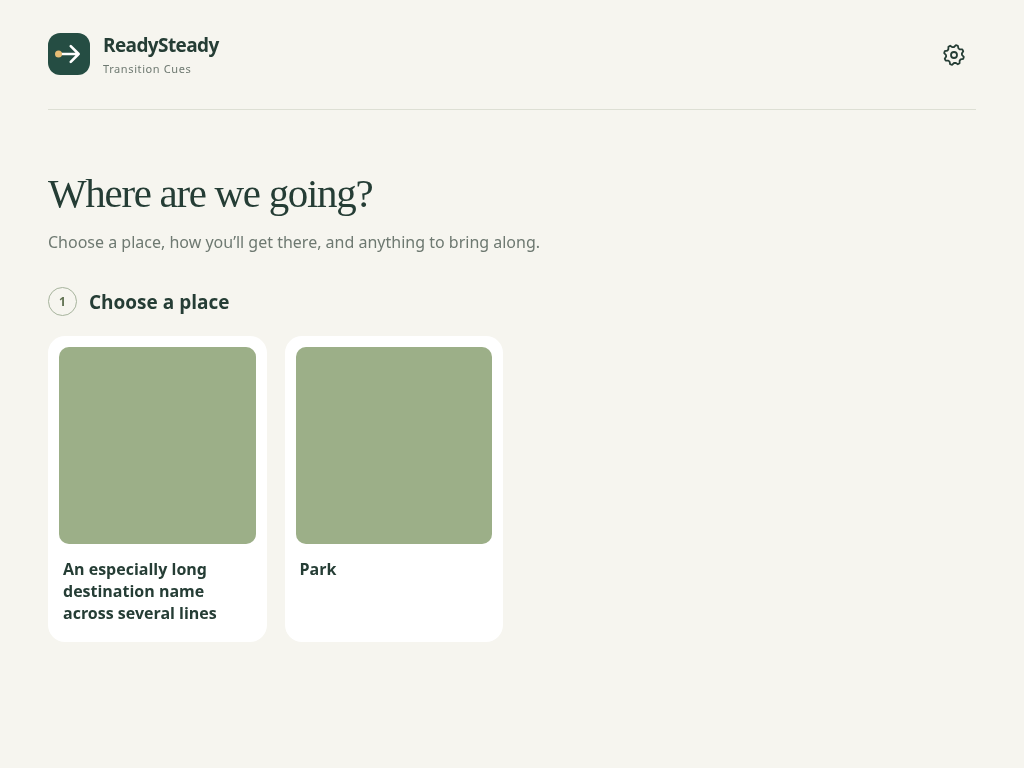
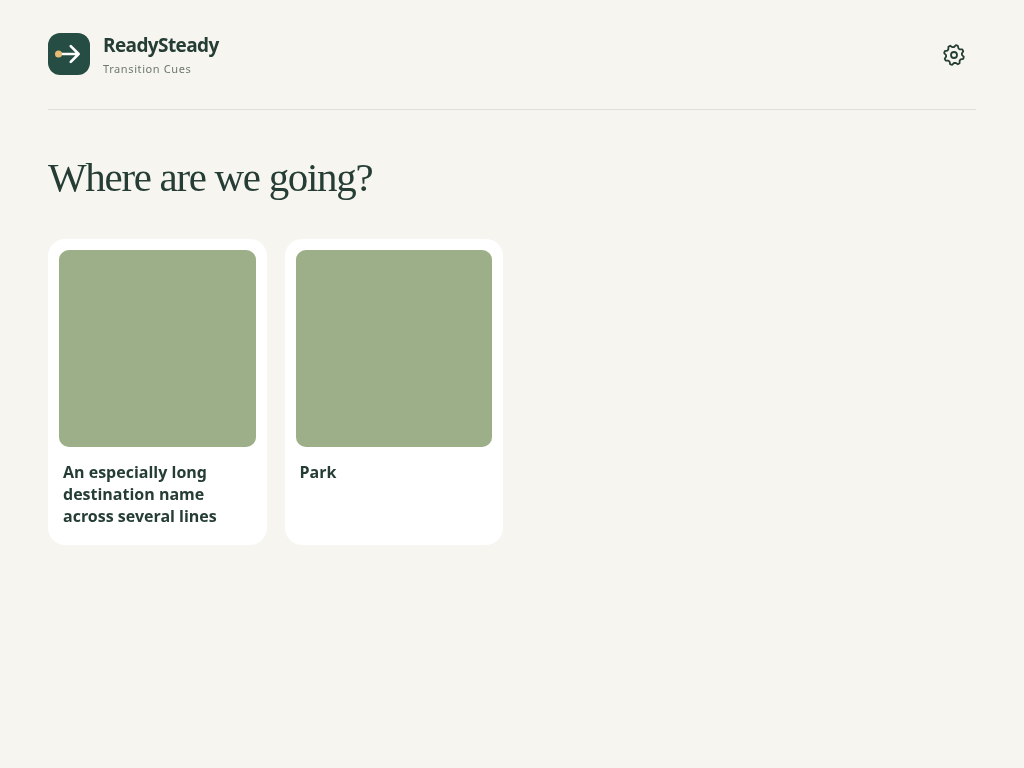
Simplify planner headings and combine People and Items in v1.0.18

diff --git a/transition_cues/transition-cues-web/app.js b/transition_cues/transition-cues-web/app.js
@@ -54,24 +54,31 @@ function empty(kind) {
   }[kind];
   return `<div class="empty"><div class="empty-symbol" aria-hidden="true">${content[0]}</div><h3>${content[1]}</h3><p>Add ${content[2]}.<br>Real, familiar pictures make each journey easier to recognise.</p><a class="secondary" href="#manage">Add ${content[3]} <span aria-hidden="true">＋</span></a></div>`;
 }
-const planKinds=['places','transport','items','people'];
+const planKinds=['places','transport','people','items'];
 function renderChoose(focusStep=false) {
   for(const kind of ['places','transport'])if(selected[kind])selected[kind]=state[kind].find(item=>item.id===selected[kind].id)||null;
   selected.items=selected.items.map(item=>state.items.find(x=>x.id===item.id)).filter(Boolean).slice(0,MAX_BRING_ITEMS);
   selected.people=selected.people.map(item=>state.people.find(x=>x.id===item.id)).filter(Boolean);
   if(!selected.places){selected.transport=null;selected.items=[];selected.people=[];planStep=0;}
   else if(!selected.transport){selected.items=[];selected.people=[];planStep=Math.min(planStep,1);}
-  const kind=planKinds[planStep], multi=planStep>=2;
-  const thumbnails=planKinds.flatMap((key,index)=>(Array.isArray(selected[key])?selected[key]:selected[key]?[selected[key]]:[]).map(item=>`<button type="button" class="plan-thumbnail ${key==='people'?'person-thumbnail':''}" data-edit-step="${index}" aria-label="Change ${key==='places'?'place':key==='items'?'item':key==='people'?'person':'transport'}: ${esc(item.name)}" title="${esc(item.name)}"><img src="${esc(item.image)}" alt=""></button>`)).join('');
-  const progress=selected.places?`<div class="plan-progress" aria-label="Your selections">${planStep>0?`<button id="previousStep" type="button" class="step-back" aria-label="Previous selection" title="Previous selection">${backIcon}</button>`:''}<div class="plan-thumbnails">${thumbnails}</div></div>`:intro('Where are we going?','Choose a place, how you’ll get there, and anything to bring along.');
-  frame(progress+`<section class="step" id="planStep" data-step="${planStep}" aria-labelledby="planHeading"><div class="step-heading"><div class="step-title"><h2 id="planHeading" tabindex="-1"><span class="step-number">${planStep+1}</span>${['Choose a place','Choose how to get there','Items to bring along','People'][planStep]}</h2>${multi?'<p class="step-optional">Optional</p>':''}</div>${multi?`<small id="${kind==='items'?'itemCount':'peopleCount'}" role="status">${kind==='items'?`${selected.items.length} of ${MAX_BRING_ITEMS} selected`:`${selected.people.length} selected`}</small>`:''}</div>${multi?`<p class="step-help">${kind==='items'?'Choose up to 4 items, then continue to People.':'Choose the people coming along, or leave this empty.'} Tap a selected picture again to remove it.</p>`:''}${state[kind].length?`<div class="grid">${state[kind].map(item=>{
-    const active=multi?selected[kind].some(x=>x.id===item.id):selected[kind]?.id===item.id;
-    const full=kind==='items'&&!active&&selected.items.length>=MAX_BRING_ITEMS;
-    return `<button class="picture ${kind==='people'?'person-picture':''} ${active?'selected':''}" data-kind="${kind}" data-id="${item.id}" aria-pressed="${active}" ${full?'disabled':''}><img src="${esc(item.image)}" alt=""><span class="check" aria-hidden="true">✓</span><span class="name">${esc(item.name)}</span></button>`;
-  }).join('')}</div>`:empty(kind)}</section><div class="journey-bar wizard-actions" ${selected.places?'':'hidden'}>${planStep===2?`<button id="nextStep" type="button" class="secondary">${selected.items.length?'Continue to People':'No items to bring'} <span aria-hidden="true">→</span></button>`:''}<button id="start" class="primary" ${selected.places&&selected.transport?'':'disabled'}>Show the plan <span aria-hidden="true">→</span></button></div>`,'choose');
+  planStep=Math.min(planStep,2);
+  const thumbnails=planKinds.flatMap((key,index)=>(Array.isArray(selected[key])?selected[key]:selected[key]?[selected[key]]:[]).map(item=>`<button type="button" class="plan-thumbnail ${key==='people'?'person-thumbnail':''}" data-edit-step="${Math.min(index,2)}" data-edit-kind="${key}" aria-label="Change ${key==='places'?'place':key==='items'?'item':key==='people'?'person':'transport'}: ${esc(item.name)}" title="${esc(item.name)}"><img src="${esc(item.image)}" alt=""></button>`)).join('');
+  const progress=selected.places?`<div class="plan-progress" aria-label="Your selections">${planStep>0?`<button id="previousStep" type="button" class="step-back" aria-label="Previous selection" title="Previous selection">${backIcon}</button>`:''}<div class="plan-thumbnails">${thumbnails}</div></div>`:'';
+  function cards(kind) {
+    const multi=kind==='people'||kind==='items';
+    return state[kind].length?`<div class="grid" data-choice-group="${kind}">${state[kind].map(item=>{
+      const active=multi?selected[kind].some(x=>x.id===item.id):selected[kind]?.id===item.id;
+      const full=kind==='items'&&!active&&selected.items.length>=MAX_BRING_ITEMS;
+      return `<button class="picture ${kind==='people'?'person-picture':''} ${active?'selected':''}" data-kind="${kind}" data-id="${item.id}" aria-pressed="${active}" ${full?'disabled':''}><img src="${esc(item.image)}" alt=""><span class="check" aria-hidden="true">✓</span><span class="name">${esc(item.name)}</span></button>`;
+    }).join('')}</div>`:empty(kind);
+  }
+  const title=['Where are we going?','How are we travelling','Who is coming along?'][planStep];
+  const heading=`<div class="intro wizard-heading"><div><h1 id="planHeading" tabindex="-1">${title}</h1>${planStep===2?'<p class="optional-label">Optional</p>':''}</div>${planStep===2?`<small id="peopleCount" role="status">${selected.people.length} selected</small>`:''}</div>`;
+  const choices=planStep===2?`${cards('people')}<section class="optional-items" aria-labelledby="itemsHeading"><div class="intro wizard-heading"><div><h2 id="itemsHeading" tabindex="-1">What is coming with us</h2><p class="optional-label">Optional</p><p class="items-guidance">Choose up to 4 items</p></div><small id="itemCount" role="status">${selected.items.length} of ${MAX_BRING_ITEMS} selected</small></div>${cards('items')}</section>`:cards(planStep===0?'places':'transport');
+  frame(progress+`<section id="planStep" data-step="${planStep}" aria-labelledby="planHeading">${heading}${choices}</section><div class="journey-bar wizard-actions" ${selected.places?'':'hidden'}><button id="start" class="primary" ${selected.places&&selected.transport?'':'disabled'}>Show the plan <span aria-hidden="true">→</span></button></div>`,'choose');
   app.querySelectorAll('[data-kind]').forEach(button=>button.onclick=()=>{
-    const item=state[kind].find(x=>x.id===button.dataset.id);
-    if(multi){
+    const kind=button.dataset.kind, item=state[kind].find(x=>x.id===button.dataset.id);
+    if(kind==='people'||kind==='items'){
       if(selected[kind].some(x=>x.id===item.id))selected[kind]=selected[kind].filter(x=>x.id!==item.id);
       else if(kind==='people'||selected.items.length<MAX_BRING_ITEMS)selected[kind].push(item);
       else return;
@@ -79,8 +86,7 @@ function renderChoose(focusStep=false) {
     }else{selected[kind]=item;planStep++;renderChoose(true);}
   });
   if($('#previousStep'))$('#previousStep').onclick=()=>{planStep--;renderChoose(true);};
-  app.querySelectorAll('[data-edit-step]').forEach(button=>button.onclick=()=>{planStep=Number(button.dataset.editStep);renderChoose(true);});
-  if($('#nextStep'))$('#nextStep').onclick=()=>{planStep=3;renderChoose(true);};
+  app.querySelectorAll('[data-edit-step]').forEach(button=>button.onclick=()=>{planStep=Number(button.dataset.editStep);const kind=button.dataset.editKind;renderChoose(true);if(kind==='items'){$('#itemsHeading').focus({preventScroll:true});$('#itemsHeading').scrollIntoView({block:'start'});}});
   $('#start').onclick=()=>{
     if(!selected.places||!selected.transport)return;
     pendingJourney={places:selected.places,transport:selected.transport,items:selected.items.slice(0,MAX_BRING_ITEMS),people:[...selected.people]};

diff --git a/transition_cues/transition-cues-web/style.css b/transition_cues/transition-cues-web/style.css
@@ -54,3 +54,5 @@
 /* One choice at a time, with compact editable selection thumbnails. */
 .header .header-back,.step-back{display:inline-flex;align-items:center;justify-content:center;width:44px;height:44px;min-height:44px;padding:0;border-radius:12px;background:#e9ebdf;color:var(--green);flex:none}.header-back svg,.step-back svg{width:25px;height:25px}.header-title{margin:0 0 0 auto;font:normal clamp(28px,4vw,36px)/1.15 var(--serif);text-align:right}.settings-segments{margin-top:28px}.plan-progress{display:flex;align-items:center;gap:12px;margin:28px 0;min-height:44px}.plan-thumbnails{display:flex;flex-wrap:wrap;gap:6px;min-width:0}.plan-thumbnail{width:44px;height:44px;padding:4px;background:transparent;border-radius:10px;flex:none}.plan-thumbnail img{display:block;width:36px;height:36px;object-fit:cover;border-radius:8px}.person-thumbnail img{border-radius:50%}.wizard-actions{justify-content:flex-end;flex-wrap:wrap}.wizard-actions #nextStep{margin-right:auto;min-height:40px;font-size:13px;padding:10px 14px}@media(max-width:620px){.wizard-actions{flex-direction:row;align-items:center}.wizard-actions .secondary{width:auto}.plan-progress{margin:22px 0}}
 .wizard-actions{background:transparent;border:0;box-shadow:none;padding:0}
+
+.wizard-heading{margin:32px 0 26px;align-items:center}.wizard-heading h2{font:normal clamp(32px,4vw,48px)/1.15 var(--serif);letter-spacing:-1.3px;margin:12px 0}.wizard-heading small{font-size:12px;color:var(--muted);flex:none}.optional-items{margin-top:40px}.wizard-heading .items-guidance{font-size:14px;margin-top:5px}@media(max-width:620px){.wizard-heading{display:flex;gap:12px;align-items:flex-start}.wizard-heading small{padding-top:18px;max-width:90px;text-align:right}.optional-items{margin-top:32px}}

diff --git a/tests/browser_display.py b/tests/browser_display.py
@@ -58,12 +58,15 @@ def run(engine):
                 page.reload()
                 expect(page.locator('[data-kind="places"]')).to_have_count(2)
                 expect(page.get_by_role('heading',name='Where are we going?',exact=True)).to_be_visible()
+                expect(page.locator('#planStep p')).to_have_count(0)
+                expect(page.locator('.step-number')).to_have_count(0)
                 expect(page.locator('[data-kind="transport"],[data-kind="items"],[data-kind="people"]')).to_have_count(0)
                 expect(page.locator('#start')).not_to_be_visible()
                 page.screenshot(path='/tmp/readysteady-step-places.png',full_page=True)
                 page.get_by_role('button',name=names[0][1],exact=True).click()
                 expect(page.locator('#planStep')).to_have_attribute('data-step','1')
                 expect(page.locator('[data-kind="places"]')).to_have_count(0)
+                expect(page.get_by_role('heading',name='How are we travelling',exact=True)).to_be_visible()
                 expect(page.get_by_role('heading',name='Where are we going?',exact=True)).to_have_count(0)
                 expect(page.locator('.plan-thumbnail')).to_have_count(1)
                 page.screenshot(path='/tmp/readysteady-step-transport.png',full_page=True)
@@ -74,8 +77,13 @@ def run(engine):
                 page.get_by_role('button',name='Bus',exact=True).click()
                 expect(page.locator('#planStep')).to_have_attribute('data-step','2')
                 expect(page.locator('.plan-thumbnail')).to_have_count(2)
-                page.locator('#nextStep').click()
-                expect(page.locator('#planStep')).to_have_attribute('data-step','3')
+                expect(page.get_by_role('heading',name='Who is coming along?',exact=True)).to_be_visible()
+                expect(page.get_by_role('heading',name='What is coming with us',exact=True)).to_be_visible()
+                expect(page.locator('#planStep .optional-label')).to_have_count(2)
+                expect(page.get_by_text('Choose up to 4 items',exact=True)).to_be_visible()
+                assert page.locator('[data-choice-group="people"]').bounding_box()['y']<page.locator('[data-choice-group="items"]').bounding_box()['y']
+                expect(page.locator('.step-number')).to_have_count(0)
+                expect(page.locator('#nextStep')).to_have_count(0)
                 # Only the current category is rendered; mixed-length card names remain aligned.
                 for width,height in [(390,844),(768,1024),(1024,768),(1280,900)]:
                     page.set_viewport_size({'width':width,'height':height})
@@ -86,7 +94,7 @@ def run(engine):
                         a,b=[photo.bounding_box() for photo in photos]
                         assert abs(a['y']-b['y'])<1,(kind,width,'photo alignment',a,b)
                         assert abs(captions[0].bounding_box()['y']-captions[1].bounding_box()['y'])<1,(kind,width,'name alignment')
-                        assert page.locator('[data-kind]').count()==2
+                        assert page.locator('[data-kind]').count()==(4 if kind in ['items','people'] else 2)
                 open_step(page,'items')
                 page.get_by_role('button',name='Drink',exact=True).click()
                 expect(page.locator('.plan-thumbnail')).to_have_count(3)

diff --git a/tests/browser_helpers.py b/tests/browser_helpers.py
@@ -32,7 +32,7 @@ def show_plan(page):
 
 
 def open_step(page, kind):
-    target=['places','transport','items','people'].index(kind)
+    target={'places':0,'transport':1,'people':2,'items':2}[kind]
     page.locator('#planStep').wait_for()
     current=int(page.locator('#planStep').get_attribute('data-step'))
     while current>target:
@@ -42,6 +42,4 @@ def open_step(page, kind):
         if current<2:
             key=['places','transport'][current]
             page.locator(f'[data-kind="{key}"][aria-pressed="true"]').click()
-        else:
-            page.locator('#nextStep').click()
         current=int(page.locator('#planStep').get_attribute('data-step'))

diff --git a/tests/container_smoke.py b/tests/container_smoke.py
@@ -81,5 +81,5 @@ print('PASS: replacement container preserves library and images in /data')
 
 if __name__ == '__main__':
     parser = argparse.ArgumentParser()
-    parser.add_argument('--image', default='transition-cues-ha-check:1.0.17')
+    parser.add_argument('--image', default='transition-cues-ha-check:1.0.18')
     run(parser.parse_args().image)

diff --git a/README.md b/README.md
@@ -24,7 +24,7 @@ No GitHub token is needed for this public repository. You do not need to copy fi
 
 ## Use
 
-Choose a place, then transport, one step at a time. Small thumbnails at the top show your choices; use the back arrow or tap a thumbnail to edit an earlier choice. Optionally select up to four bring-along items, continue to People, and select anyone joining you. Tap **Show the plan** when ready. The locked display shows the place and transport first, followed by selected people as circular portraits and bring-along items in side-by-side groups. The journey appears in landscape; portrait shows a **Turn your device** prompt. People and items are optional; tap any selected picture again to deselect it. Tap five times within three seconds to finish. Reloading restores the locked journey in that browser.
+Choose a place, then transport, one step at a time. Small thumbnails at the top show your choices; use the back arrow or tap a thumbnail to edit an earlier choice. On the final page, optionally select people first and up to four bring-along items beneath them. Tap **Show the plan** when ready. The locked display shows the place and transport first, followed by selected people as circular portraits and bring-along items in side-by-side groups. The journey appears in landscape; portrait shows a **Turn your device** prompt. People and items are optional; tap any selected picture again to deselect it. Tap five times within three seconds to finish. Reloading restores the locked journey in that browser.
 
 On a phone, open the same server address and choose **Settings → Add photos** to upload, name, browse and remove pictures in all four categories. Use **Crop photo** before uploading or beside an existing library picture to frame the image. People have a circular preview; drag, zoom or use the position sliders to centre each face. Use **Settings → More settings** to add a **Back to main screen** link in the parent-screen navigation. The return link can point to a dashboard or another application.
 
@@ -56,6 +56,7 @@ Screenshots use coloured test placeholders, not family photographs:
 
 - [Tablet selection screen](docs/screenshots/picker.png)
 - [Transport selection with thumbnail summary](docs/screenshots/transport.png)
+- [Combined People and Items page](docs/screenshots/companions.png)
 - [More settings](docs/screenshots/settings.png)
 - [Portrait rotation prompt](docs/screenshots/portrait.png)
 - [Locked display with people and bring-along items](docs/screenshots/locked.png)

diff --git a/transition_cues/DOCS.md b/transition_cues/DOCS.md
@@ -68,7 +68,7 @@ Crops keep the existing picture's name and category. Images on an already-locked
 
 ## Plan a journey
 
-The planner shows only one category at a time. It starts with Places; choosing a place advances to Transport, and choosing transport advances to Items. Select up to four items, then use **Continue to People** (or **No items to bring**). Choose any people, or leave that step empty. People has no four-person cap.
+The planner has three pages. **Where are we going?** shows Places with no subtitle or numbered heading. Selecting a place opens **How are we travelling**. Selecting transport opens the combined final page: **Who is coming along?** with People pictures, then **What is coming with us** with item pictures. Both groups are labelled **Optional**, with **Choose up to 4 items** beneath the Items heading. People has no four-person cap. Tap a selected picture again to deselect it.
 
 After the first place is selected, the opening title and description are replaced by small thumbnails of your choices. The thumbnails update as you select or deselect pictures. Use the chevron to return to the previous step, or tap a thumbnail to edit that category. Earlier choices are retained when navigating back. **Show the plan** appears after choosing a place and becomes available once transport is selected; both optional categories may be left empty.
 

diff --git a/transition_cues/CHANGELOG.md b/transition_cues/CHANGELOG.md
@@ -1,5 +1,12 @@
 # Changelog
 
+## 1.0.18
+
+- Remove the opening subtitle and numbered selection headings.
+- Use large serif titles for Where are we going? and How are we travelling.
+- Combine People and Items into one final page: Who is coming along? followed by What is coming with us, with Optional labels and Choose up to 4 items guidance.
+- Keep selected thumbnails, previous-step navigation, optional selections and the four-item cap.
+
 ## 1.0.17
 
 - Move Settings into the header on the right, with an accessible chevron-only back control on the left. Keep only the cog on the plan screen.
